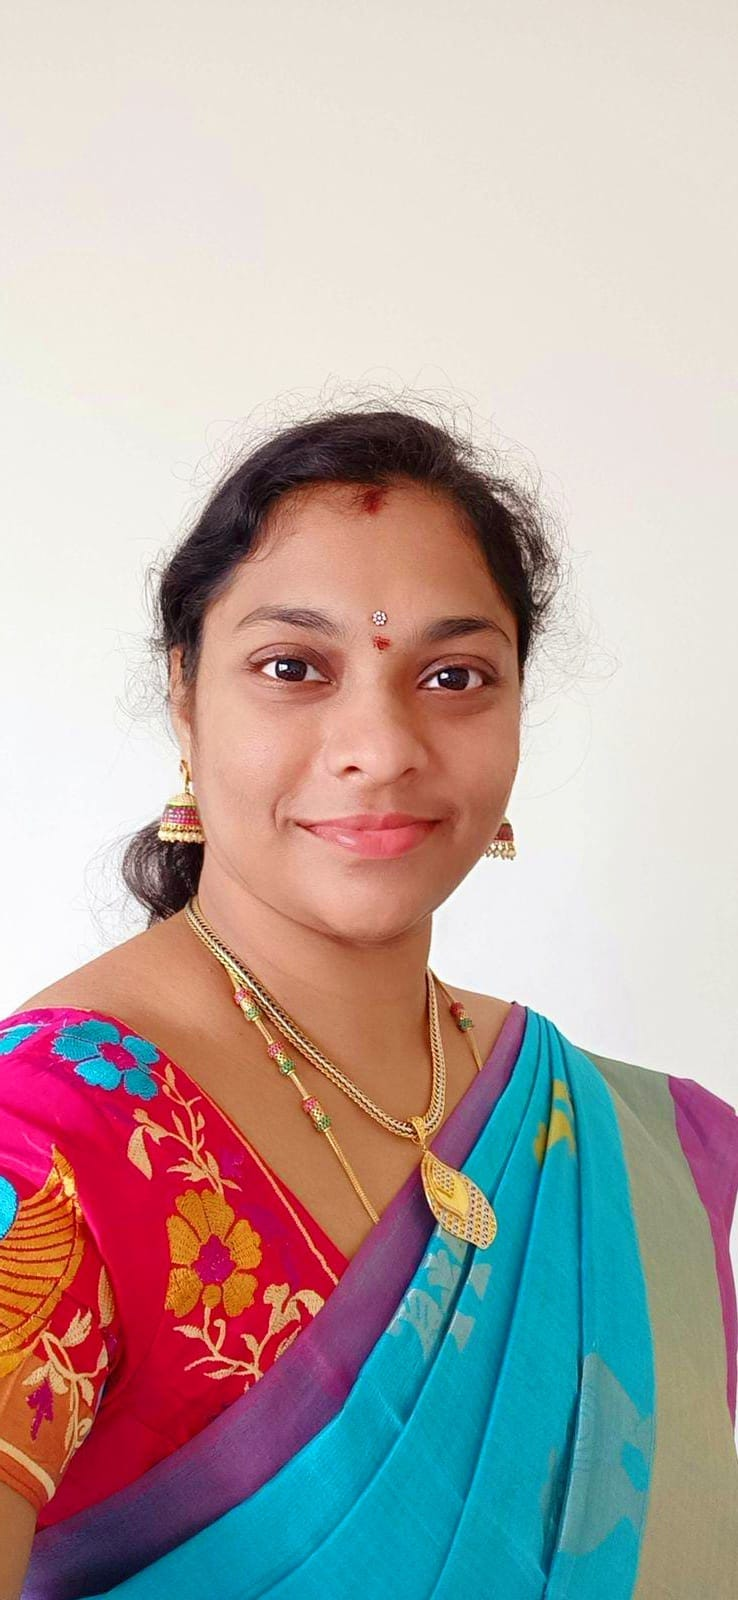
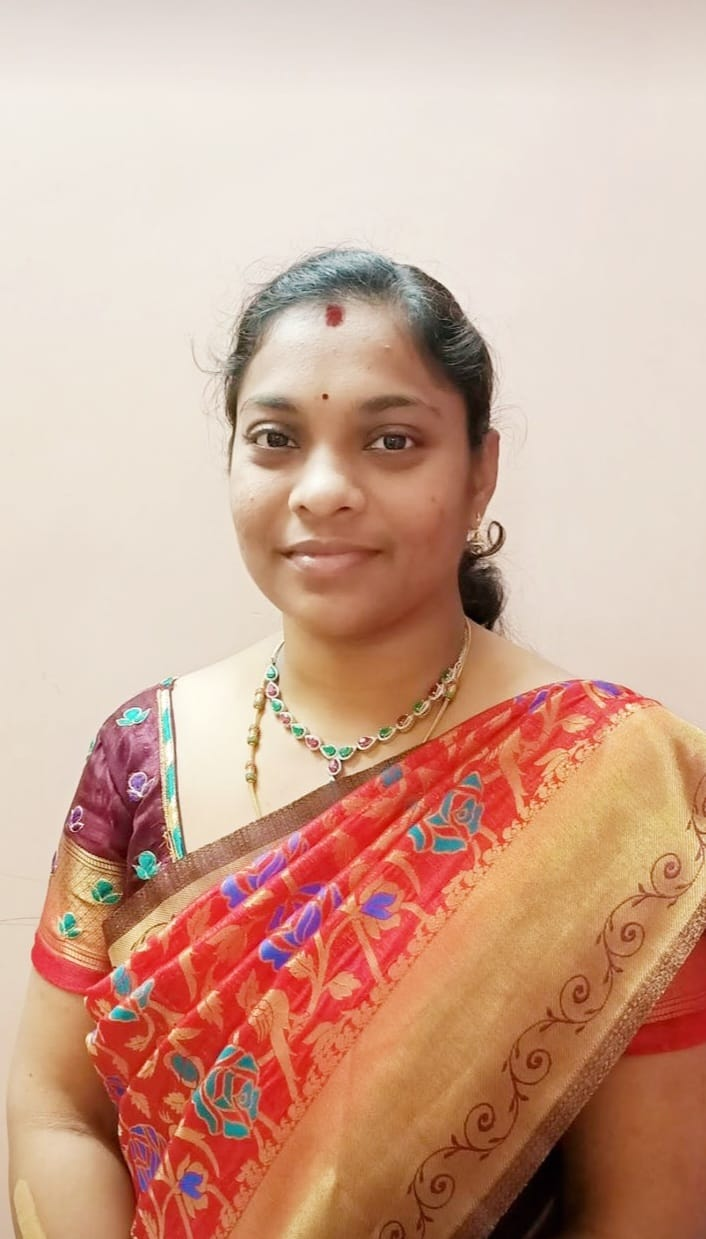
photos and aboutusall changed

diff --git a/src/components/Aboutus.js b/src/components/Aboutus.js
@@ -6,7 +6,7 @@ import img2 from "../Assests/img2.jpeg";
 import img3 from "../Assests/img3.jfif";
 import img4 from "../Assests/img4.jpeg";
 //import img5 from "../Assests/img5.jpeg";
-import services from "../Assests/services.jpeg";
+// import services from "../Assests/services.jpeg";
 import { useNavigate } from "react-router-dom";
 const Aboutus = () => {
   const navigate = useNavigate();
@@ -36,7 +36,20 @@ const Aboutus = () => {
       </div>
       <div className={style.services}>
         <h1>Our Services</h1>
-        <img src={services} alt="" className={style.serviceimg} />
+        <ol className={style.list}> 
+          <li>* Individual Counselling</li>
+          <li>* Premarital Counselling</li>
+          <li>* Couple Counselling</li>
+          <li>* Family Counselling</li>
+          <li>* Carrer Counselling</li>
+          <li>* Education Counselling</li>
+          <li>* Adolesent Counselling</li>
+          <li>* Ageing Counselling</li>
+          <li>* Infertility Counselling</li>
+          <li>* De-Addiction Counselling</li>
+          <li>* Rehabilitation Counselling</li>
+        </ol>
+        {/* <img src={services} alt="" className={style.serviceimg} /> */}
       </div>
 
       <h1>Our Team</h1>
@@ -101,7 +114,8 @@ const Aboutus = () => {
           </div>
           <span className={style.matter}>
             * Pre-Maratial Counselling <br /> * Relationship issues <br /> *
-            Marital Concerns <br />* Couple Therapy <br /> * Lifestyle Issues
+            Marital Concerns <br />* Couple counselling <br /> * Lifestyle
+            Issues
           </span>
         </div>
 
@@ -128,42 +142,45 @@ const Aboutus = () => {
       <div className={style.faq}>
         <h1 className="text-black">FAQ's</h1>
         <div className={style.faqitem}>
-          <h1 className={style.question}>Can I get psychological counselling online?</h1>
+          <h1 className={style.question}>Can I get counselling online?</h1>
           <span className="m-3">
-            Yes, you can get psychological counselling online In India and from
-            any part of the world with Ignit.com.Online psychological
-            counselling allows you to take counselling from your therapist from
-            the comfort of your home and at your convenient time.Ignit
-            offers quality psychological counselling online by trained and
-            experienced listed therapists which is as effective as face- to -
-            face counselling.
+            Yes, you can get counselling online In India and from any part of
+            the world with Ignit.com.Online counselling allows you to take
+            counselling from your therapist from the comfort of your home and at
+            your convenient time.Ignit offers quality counselling online by
+            trained and experienced listed therapists which is as effective as
+            face- to - face counselling.
           </span>
-          <h1 className={style.question}>What are the advantages of online counseling?</h1>
+          <h1 className={style.question}>
+            What are the advantages of online counselling?
+          </h1>
           <span className="m-3">
-            There are various advantages when it comes to Online Counseling.
+            There are various advantages when it comes to Online counselling.
             Accessibility is one of the primary advantages. Because the entire
-            setup is online, one can access counseling from their home. Online
+            setup is online, one can access counselling from their home. Online
             counselling also helps with a lot of flexibility when it comes to
             the timing of an appointment which you can choose as per your
             convenience by choosing the mode of Psychological Counselling, be it
-            call, video call or chat. Online Counseling is also advantageous in
+            call, video call or chat. Online counselling is also advantageous in
             terms of finances because you can save the travel & inconvenience
             costs. You can start your online counselling with IGNIT The most
-            trusted and rated online therapy service provider in India.
+            trusted and rated online counselling service provider in India.
           </span>
-          <h1 className={style.question}>Who needs Online counselling and therapy?</h1>
+          <h1 className={style.question}>Who needs Online counselling ?</h1>
           <span className="m-3">
-            Online therapy is for someone who is undergoing discomfort, stress,
-            anxiety, depression, insomnia or emotional health challenges due to
-            personal, professional or environmental issues such as Covid 19,
-            climate change, or even inflation issues etc. Online therapy is also
-            for people, who are unable to continue with traditional online
-            therapy sessions. Ignit not only helps people heal from the
-            above mentioned issues but also helps people to thrive in life with
-            counselling for confidence, motivation, professional growth and
+            Online counselling is for someone who is undergoing discomfort,
+            stress, anxiety, depression, insomnia or emotional health challenges
+            due to personal, professional or environmental issues such as Covid
+            19, climate change, or even inflation issues etc. Online counselling
+            is also for people, who are unable to continue with traditional
+            online counselling sessions. Ignit not only helps people heal from
+            the above mentioned issues but also helps people to thrive in life
+            with counselling for confidence, motivation, professional growth and
             fulfilling relationships.
           </span>
-          <h1 className={style.question}>How do I choose an online counsellor? </h1>
+          <h1 className={style.question}>
+            How do I choose an online counsellor?{" "}
+          </h1>
           <span className="m-3">
             Asking a few questions to yourself will help you narrow down your
             search for an online counselor, such as - the concern that you would
@@ -172,12 +189,14 @@ const Aboutus = () => {
             relationships, emotional issues, or others might help.Once you are
             aware of the concern you need assistance with, you can take a look
             at the Counselor's profile and if they have experience and expertise
-            in handling the same issue.BetterLFY has a team of online therapists
+            in handling the same issue.Ignit has a team of online therapists
             that excel in dealing with issues related to marriage, stress &
             anxiety, academics, professional life, friends, parenting, self -
             esteem and confidence and many more.
           </span>
-          <h1 className={style.question}>What to keep in mind during online counseling? </h1>
+          <h1 className={style.question}>
+            What to keep in mind during online counselling?{" "}
+          </h1>
           <span className="m-3">
             Keeping a few things in mind before and during the counselling
             session will help you focus on the concerns you need help with
@@ -190,35 +209,36 @@ const Aboutus = () => {
             before starting the online counselling session, as this will keep
             you from forgetting any important matters you need help with
           </span>
-          <h1 className={style.question}>What is the medium for online therapy? </h1>
+          <h1 className={style.question}>
+            What is the medium for online counselling?{" "}
+          </h1>
           <span className="m-3">
-            Like the various mediums for online therapy used these days,
+            Like the various mediums for online counselling used these days,
             Ignit offers you to choose between video calls, audio calls and
-            chat-based online therapy sessions which is completely safe to use.
+            chat-based online counselling sessions which is completely safe to
+            use.
           </span>
           <h1 className={style.question}>
             Is my information secure and confidential in online counselling?
           </h1>
           <span className="m-3">
-            Yes, online counseling is secure and all your information is
-            confidential. Online counseling setups ensure privacy and
-            confidentiality of a client. Ignit offers anonymous and
-            confidential counselling where the client's records are accessible
-            only by the counsellor and the client. Usually, the portals used for
-            online therapy are HIPAA and FERPA compliant portals such as Zoom
-            (video platform) or tawk.to (chat platform), or Spark (call
-            platform). Though these are not Indian laws, the usual platforms
+            Yes, online counselling is secure and all your information is
+            confidential. Online counselling setups ensure privacy and
+            confidentiality of a client. Ignit offers anonymous and confidential
+            counselling where the client's records are accessible only by the
+            counsellor and the client. Usually, the portals used for online
+            counselling are Zoom and Google Meet. Though these are not Indian laws, the usual platforms
             used for various modes of online counselling in India as well are
             the ones mentioned above and hence have these regulations in place.
           </span>
           <h1 className={style.question}>Is online counselling expensive? </h1>
           <span className="m-3">
-            Online Counseling is not expensive. In fact, it turns out to be less
-            expensive than traditional listed online therapy because it helps
-            you save travel costs and also online therapy sessions at Ignit
-            are more cost-effective. Therefore, online counselling being
-            expensive is not false and online counseling platforms like
-            Ignit offer counselling plans available at various price points.
+            Online counselling is not expensive. In fact, it turns out to be
+            less expensive than traditional listed online counselling because it
+            helps you save travel costs and also online counselling sessions at
+            Ignit are more cost-effective. Therefore, online counselling being
+            expensive is not false and online counselling platforms like Ignit
+            offer counselling plans available at various price points.
           </span>
         </div>
       </div>

diff --git a/src/components/Aboutall.js b/src/components/Aboutall.js
@@ -4,21 +4,38 @@ import img1 from "../Assests/img1.jpeg";
 import img2 from "../Assests/img2.jpeg";
 import img3 from "../Assests/img3.jfif";
 import img4 from "../Assests/img4.jpeg";
-import img5 from "../Assests/img5.jpeg";
+// import img5 from "../Assests/img5.jpeg";
 
 const Aboutall = () => {
   return (
     <div className={Styles.container}>
       <div className={Styles.item}>
-        <img src={img5} alt="" className={Styles.image} />
-        <p>
-          I am a dedicated professional with a diverse educational background,
-          holding both an MBA and an MA in Psychology. As a seasoned
-          psychologist, my expertise lies in navigating the complexities of the
-          human mind. My strength lies in handling challenges with unwavering
-          patience, ensuring a compassionate and effective approach to
-          psychological well-being.
-        </p>
+        <img src={img3} alt="" className={Styles.image} />
+        <h4>
+          I feel glad to share that i have a extent background experience in
+          teaching across schools and colleges, I bring a wealth of knowledge
+          and passion to education. As a life skills and Women Empowerment
+          coach, I extend personalized counseling services to students, guiding
+          them on a path of self-discovery and motivate them. Committed to
+          making a positive impact, I actively contribute to the empowerment of
+          women and adolescent girls. Through a blend of teaching, counseling,
+          and advocacy, I aspire to foster growth and resilience in individuals.
+          Let's embark on this journey together!
+        </h4>
+      </div>
+      <div className={Styles.item}>
+        <img src={img2} alt="" className={Styles.image} />
+        <h4>
+          Bhargavi, a distinguished teaching professional with M.Tech Background
+          worked as student counsellor providing high quality services to
+          students. Beyond career guidance extends to enhancing interpersonal
+          relationships and nurturing skills for happier and more resilient
+          life. Approach is rooted in evidence- based psychological principles ,
+          ensuring that clients not only discover their potential but also
+          acquire the tools to..thrive in an ever-changing world. With my
+          guidance individuals can chart a path to personal and professional
+          fuillfillment
+        </h4>
       </div>
       <div className={Styles.item}>
         <img src={img1} alt="" className={Styles.image} />
@@ -29,33 +46,6 @@ const Aboutall = () => {
           mental health involving Domestic Violence, Substance Abuse and Mental
           Health Issues and ensure the well-being of my clients by guiding them
           to lead a hurdle free and a happy life.
-        </h4>
-      </div>
-      <div className={Styles.item}>
-        <img src={img3} alt="" className={Styles.image} />
-        <h4>
-          I feel glad to share that i have a extent background experience in
-          teaching across schools and colleges, I bring a wealth of knowledge
-          and passion to education. As a life skills and Women Empowerment coach, I extend
-          personalized counseling services to students, guiding them on a path
-          of self-discovery and motivate them. Committed to making a
-          positive impact, I actively contribute to the empowerment of women and
-          adolescent girls. Through a blend of teaching, counseling, and
-          advocacy, I aspire to foster growth and resilience in individuals.
-          Let's embark on this journey together!
-        </h4>
-      </div>
-      <div className={Styles.item}>
-        <img src={img2} alt="" className={Styles.image} />
-        <h4>
-          Bhargavi, a distinguished teaching professional with M.Tech
-          Background worked as student counsellor providing high quality
-          services to students. Beyond career guidance extends to enhancing interpersonal
-           relationships and nurturing skills for happier and more resilient life.
-           Approach is rooted in evidence- based psychological principles , ensuring that
-          clients not only discover their potential but also acquire the tools
-          to..thrive in an ever-changing world. With my guidance individuals
-          can chart a path to personal and professional fuillfillment
         </h4>
       </div>
       <div className={Styles.item}>

diff --git a/src/components/Home.js b/src/components/Home.js
@@ -1,5 +1,4 @@
 import React from "react";
-// import img1 from "../Assests/WhatsApp_Image_2023-11-10_at_10.16.32_AM-removebg-preview.png"
 import img1 from "../Assests/logo.png";
 import img2 from "../Assests/effective-meetings.jpg";
 import img3 from "../Assests/istockphoto-1286378180-612x612.jpg";

diff --git a/src/components/aboutus.module.css b/src/components/aboutus.module.css
@@ -93,3 +93,12 @@ h1{
 .question{
     margin-left: 1.2rem;
 }
+.list{
+    margin: 1.25rem;
+    font-size: 1.75rem;
+}
+@media screen and (max-width:500px) {
+ .list{
+    font-size: 1rem;
+ }   
+}
